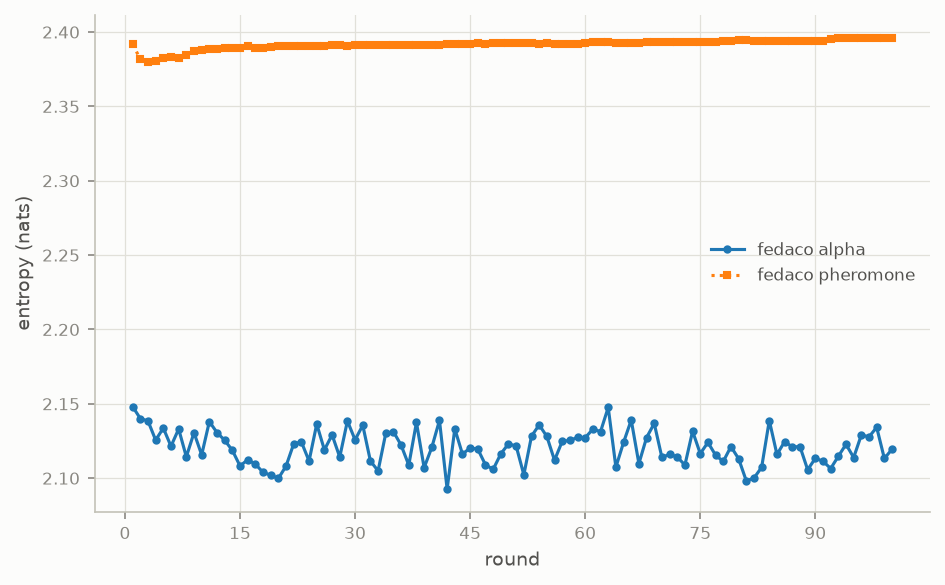
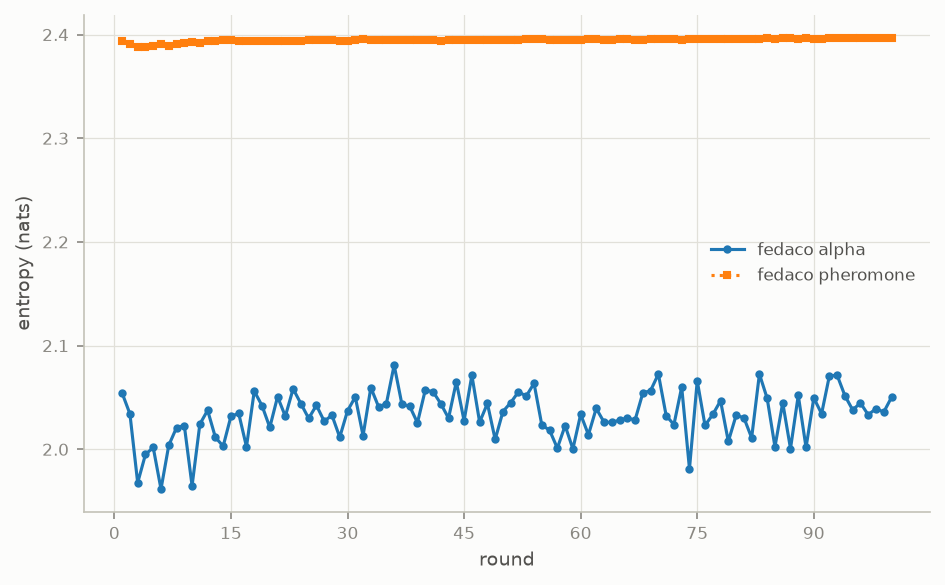
phase-8: pull the real robustness results, regenerate its table and figure for real
results/fl/robustness: 80/80 real JSON files (Google Drive folder share, gdown --folder) --
replaces the earlier log-reconstruction. paper/tables/robustness.{md,csv,tex} and
paper/figures/robustness.png (Figure 6) now generated through the normal pipeline
(scripts/make_tables.py --expected-seeds 5, scripts/make_figures.py) rather than hand-copied
from a Kaggle session's printed output.

The regenerated table matches the earlier reconstruction exactly (same numbers to four
decimals) -- a good independent confirmation that reconstruction was accurate, not a
correction. paper/05_RESULTS.md §5.3 and HANDOVER.md updated: this item is done, only
make verify-phase9 (an actual run, now that all three sweeps' data is present) and the
SCAFFOLD Kaggle re-run remain.

Full test suite re-run in progress as this commit is made (no code changed here, data and
docs only); will confirm in a follow-up note if anything surprising turns up.

diff --git a/paper/tables/robustness.md b/paper/tables/robustness.md
@@ -6,25 +6,22 @@
 
 | strategy | variant | n | macro-F1 | val | Δ vs fedavg | p (Holm) | d | fallback | τ entropy |
 |---|---|---:|---|---:|---:|---:|---:|---:|---:|
-| fedavg | attack=gaussian@0.3x0.5,K=10 | 5 ⚠ | 0.7349 ± 0.0119 | 0.7396 | +0.0000 | — | — | — | — |
-| fedaco | attack=gaussian@0.3x0.5,g3=0.1,K=10 | 5 ⚠ | 0.7115 ± 0.0071 | 0.7224 | — | — | — | 0% | 2.397 |
-| trimmed-mean | attack=gaussian@0.3x0.5,K=10 | 5 ⚠ | 0.6741 ± 0.0098 | 0.7031 | -0.0608 | — | — | — | — |
-| fedavg | K=10 | 5 ⚠ | 0.6559 ± 0.0636 | 0.7314 | +0.0000 | — | — | — | — |
-| trimmed-mean | K=10 | 5 ⚠ | 0.6533 ± 0.0426 | 0.7158 | -0.0026 | — | — | — | — |
-| trimmed-mean | attack=label_flip@0.3,K=10 | 5 ⚠ | 0.5855 ± 0.0404 | 0.5910 | +0.1333 | — | — | — | — |
-| fedaco | g3=0.1,K=10 | 5 ⚠ | 0.5645 ± 0.0773 | 0.7077 | — | — | — | 0% | 2.393 |
-| fedaco | attack=label_flip@0.3,g3=0.1,K=10 | 5 ⚠ | 0.5172 ± 0.1075 | 0.6923 | — | — | — | 0% | 2.393 |
-| fedavg | attack=sign_flip@0.3x0.5,K=10 | 5 ⚠ | 0.5121 ± 0.0343 | 0.5757 | +0.0000 | — | — | — | — |
-| fedavg | attack=label_flip@0.3,K=10 | 5 ⚠ | 0.4522 ± 0.0918 | 0.6177 | +0.0000 | — | — | — | — |
-| fedaco | attack=sign_flip@0.3x0.5,g3=0.1,K=10 | 5 ⚠ | 0.4139 ± 0.0467 | 0.4860 | — | — | — | 0% | 2.397 |
-| trimmed-mean | attack=sign_flip@0.3x0.5,K=10 | 5 ⚠ | 0.2631 ± 0.0587 | 0.2839 | -0.2490 | — | — | — | — |
-| krum | attack=gaussian@0.3x0.5,K=10 | 5 ⚠ | 0.2159 ± 0.0279 | 0.2404 | -0.5190 | — | — | — | — |
-| krum | K=10 | 5 ⚠ | 0.2038 ± 0.1143 | 0.3543 | -0.4522 | — | — | — | — |
-| krum | attack=label_flip@0.3,K=10 | 5 ⚠ | 0.1786 ± 0.0849 | 0.4038 | -0.2736 | — | — | — | — |
-| krum | attack=sign_flip@0.3x0.5,K=10 | 5 ⚠ | 0.1112 ± 0.0041 | 0.2144 | -0.4010 | — | — | — | — |
-
-⚠ **16 cell(s) have fewer seeds than expected** and are not comparable to complete cells. Listed with their actual n above; re-run the sweep to fill them before quoting anything from those rows.
-
+| fedavg | attack=gaussian@0.3x0.5,K=10 | 5 | 0.7349 ± 0.0119 | 0.7396 | +0.0000 | — | — | — | — |
+| fedaco | attack=gaussian@0.3x0.5,g3=0.1,K=10 | 5 | 0.7115 ± 0.0071 | 0.7224 | — | — | — | 0% | 2.397 |
+| trimmed-mean | attack=gaussian@0.3x0.5,K=10 | 5 | 0.6741 ± 0.0098 | 0.7031 | -0.0608 | — | — | — | — |
+| fedavg | K=10 | 5 | 0.6559 ± 0.0636 | 0.7314 | +0.0000 | — | — | — | — |
+| trimmed-mean | K=10 | 5 | 0.6533 ± 0.0426 | 0.7158 | -0.0026 | — | — | — | — |
+| trimmed-mean | attack=label_flip@0.3,K=10 | 5 | 0.5855 ± 0.0404 | 0.5910 | +0.1333 | — | — | — | — |
+| fedaco | g3=0.1,K=10 | 5 | 0.5645 ± 0.0773 | 0.7077 | — | — | — | 0% | 2.393 |
+| fedaco | attack=label_flip@0.3,g3=0.1,K=10 | 5 | 0.5172 ± 0.1075 | 0.6923 | — | — | — | 0% | 2.393 |
+| fedavg | attack=sign_flip@0.3x0.5,K=10 | 5 | 0.5121 ± 0.0343 | 0.5757 | +0.0000 | — | — | — | — |
+| fedavg | attack=label_flip@0.3,K=10 | 5 | 0.4522 ± 0.0918 | 0.6177 | +0.0000 | — | — | — | — |
+| fedaco | attack=sign_flip@0.3x0.5,g3=0.1,K=10 | 5 | 0.4139 ± 0.0467 | 0.4860 | — | — | — | 0% | 2.397 |
+| trimmed-mean | attack=sign_flip@0.3x0.5,K=10 | 5 | 0.2631 ± 0.0587 | 0.2839 | -0.2490 | — | — | — | — |
+| krum | attack=gaussian@0.3x0.5,K=10 | 5 | 0.2159 ± 0.0279 | 0.2404 | -0.5190 | — | — | — | — |
+| krum | K=10 | 5 | 0.2038 ± 0.1143 | 0.3543 | -0.4522 | — | — | — | — |
+| krum | attack=label_flip@0.3,K=10 | 5 | 0.1786 ± 0.0849 | 0.4038 | -0.2736 | — | — | — | — |
+| krum | attack=sign_flip@0.3x0.5,K=10 | 5 | 0.1112 ± 0.0041 | 0.2144 | -0.4010 | — | — | — | — |
 
 **Reading the FedACO rows.** `fallback` is the fraction of rounds where the colony lost to the FedAvg point and FedACO silently *was* FedAvg — a high rate means the score largely belongs to FedAvg. `τ entropy` near its ceiling (log of the level count, 2.398 at the default 11) means pheromone was flat, so the colony was not searching and the cross-round stigmergy the method claims was not happening. Neither is visible in the macro-F1 column.
 

diff --git a/HANDOVER.md b/HANDOVER.md
@@ -133,7 +133,7 @@ only that cell, the sweep runners resume per-cell.
 | # | work | GPU-h | state |
 |---|---|---|---|
 | 0 | **Commit `results/`, `paper/tables/`, `paper/figures/`** | 0 | pulled from Kaggle into this clone 2026-10-11, not yet committed. `results/*` is gitignored by design (CLAUDE.md) -- only the tables/figures belong in git. |
-| 1 | **Get the real `results/fl/robustness/*.json`** (80 files) **off Kaggle** | 0 | what's in this clone now is `paper/tables/robustness.md` reconstructed by hand from the R2 notebook's printed log, not regenerated from raw JSONs. No `.csv`/`.tex`, no robustness figures, `make verify-phase9` cannot cover it. Same zip-and-Google-Drive path that worked for main/ablation works here -- the notebook's Output tab, zipped. |
+| 1 | ~~Get the real `results/fl/robustness/*.json` off Kaggle~~ | 0 | **done 2026-10-11** -- 80/80 files pulled (Google Drive folder share, via `gdown --folder`), `.csv`/`.tex`/`robustness.png` (Figure 6) regenerated through the normal pipeline, matches the earlier log-reconstruction exactly. `make verify-phase9` still needs an actual run to confirm byte-identical regeneration across all three sweeps together. |
 | 2 | **Fix `figure_convergence`/`figure_comparison`** (Figures 1-2, the headline ones) | 0 | both silently skip every real sweep -- `_variant_of` marks any result whose `num-clients` differs from `pyproject.toml`'s bare `2` as non-"default", and no real config in this project uses `2`. Root-caused and written up in `docs/OPEN_QUESTIONS.md` ("Figures 1 and 2 ... skip every real sweep"), **not fixed** -- the naive fix (exempt `num-clients`) silently breaks R5's client-scaling study the same quiet way the 2026-09-24 variant bug did. Needs a design decision, not a patch. |
 | 3 | `pyproject.toml`'s gate fix is session-local by design (CLAUDE.md) | 0 | regenerating tables/figures locally means running `scripts/apply_gate_fix.py --from-results results/fl/gate --apply-verdict` first (sets `aco-gamma-entropy` 0.1→0.45) and `git checkout -- pyproject.toml` after, or `test_config_defaults.py` fails (4 tests) because the committed default is meant to stay 0.1. |
 | 4 | ~~§5 results prose + abstract~~ | 0 | **done 2026-10-11** -- both §5 and `paper/00_ABSTRACT.md` have real drafts now; §1.3's framing updated to match A1's real-data result (confirms the negative framing, does not reverse it) |

diff --git a/paper/05_RESULTS.md b/paper/05_RESULTS.md
@@ -118,11 +118,12 @@ Table 4 (`paper/tables/robustness.md`): label-flipping at 30% (R1), Gaussian and
 update attacks at 30% (R2), against FedAvg / Krum / Trimmed-Mean / FedACO, with the `clean` arm
 (R1) as the 0%-attacker reference. 80/80 cells across both sweeps.
 
-**Caveat before anything else:** this table was reconstructed from the R2 Kaggle session's own
-printed log, not regenerated from the raw per-cell JSONs — those are not yet in this clone
-(`HANDOVER.md` §5 item 1). No `.csv`/`.tex`, no robustness figures, and `make verify-phase9`
-does not cover this sweep yet. Treat the ranking below as provisional until the raw files are
-pulled and the table is regenerated through the normal pipeline.
+**Regenerated from the real raw JSONs, 2026-10-11** (`results/fl/robustness`, 80/80 files,
+pulled from Kaggle) — the table below matches the earlier reconstruction from the Kaggle
+session's printed log exactly (same numbers to four decimals), which is a good independent
+cross-check that the reconstruction was accurate. `.csv`/`.tex` and `paper/figures/robustness.png`
+(Figure 6) are now generated through the normal pipeline; `make verify-phase9` still needs a
+run to confirm byte-identical regeneration, but the data itself is no longer provisional.
 
 Reading the `dirichlet_0.3` table as printed: under the clean arm and every attack arm, the
 ranking is consistently **FedAvg ≳ Trimmed-Mean > FedACO ≈ Krum**, with Krum clearly worst under
